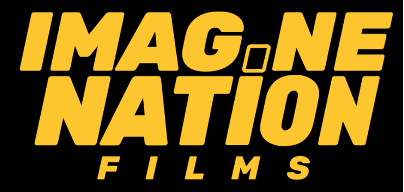
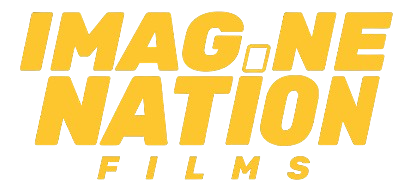
cambios

diff --git a/src/Styles/home.css b/src/Styles/home.css
@@ -101,47 +101,42 @@
 	max-width: 78%;
 	margin: 0 auto 24px;
 	padding: 26px 28px;
-	opacity: 0;
-	transform: scale(0.9);
-	animation: infPop 0.7s cubic-bezier(0.2, 1.2, 0.3, 1) 0.1s forwards;
+	animation: infPop 0.7s cubic-bezier(0.2, 1.2, 0.3, 1) 0.1s both;
 }
 @keyframes infPop {
+	from { opacity: 0; transform: scale(0.9); }
 	to { opacity: 1; transform: scale(1); }
 }
 
-
-/* NUEVO: Contenedor transparente sin recuadro */
+/* ===== LOGO (única versión, amarillo vivo) ===== */
 .inf-logo-box {
-    position: relative;
-    background: transparent;
-    padding: 10px 0;
-    box-shadow: none;
-    overflow: visible;
+	position: relative;
+	background: transparent;
+	border: none;
+	padding: 10px 0;
+	box-shadow: none;
+	overflow: visible;
 }
 
 .inf-logo-box::after {
-    display: none;
+	display: none;
 }
-
-/* NUEVO: Ajuste para el PNG (limpia el fondo y mantiene solo el texto visible) */
-.inf-logo {
-    position: relative;
-    width: 100%;
-    max-width: 220px; /* Ajusta el tamaño si lo ves muy grande */
-    height: auto;
-    display: block;
-    margin: 0 auto;
-    z-index: 1;
-    filter: brightness(0) invert(1); /* Vuelve el logo completamente blanco/brillante, o quítalo si tu PNG ya es blanco o amarillo */
-}
-
 
 .inf-logo {
 	position: relative;
 	width: 100%;
+	max-width: 240px;
 	height: auto;
 	display: block;
+	margin: 0 auto;
 	z-index: 1;
+	mix-blend-mode: normal;
+	opacity: 1;
+	filter:
+		brightness(0.89)
+		saturate(1.1)
+		drop-shadow(0 0 24px rgba(255, 199, 44, 0.45))
+		drop-shadow(0 0 10px rgba(255, 199, 44, 0.35));
 }
 
 .vf-corner {
@@ -209,8 +204,7 @@
 	text-transform: uppercase;
 	color: #cfcfcf;
 	margin: 0 0 34px;
-	opacity: 0;
-	animation: infFade 0.6s ease 0.5s forwards;
+	animation: infFade 0.6s ease 0.5s both;
 }
 .inf-line {
 	height: 1px;
@@ -219,6 +213,7 @@
 	opacity: 0.6;
 }
 @keyframes infFade {
+	from { opacity: 0; }
 	to { opacity: 1; }
 }
 
@@ -240,12 +235,11 @@
 	text-decoration: none;
 	color: #fff;
 	overflow: hidden;
-	opacity: 0;
-	transform: translateX(-30px);
-	animation: infSlide 0.6s cubic-bezier(0.2, 1, 0.3, 1) var(--d) forwards;
+	animation: infSlide 0.6s cubic-bezier(0.2, 1, 0.3, 1) var(--d) both;
 	transition: transform 0.25s ease, border-color 0.25s ease;
 }
 @keyframes infSlide {
+	from { opacity: 0; transform: translateX(-30px); }
 	to { opacity: 1; transform: translateX(0); }
 }
 
@@ -323,12 +317,11 @@
 	font-weight: 700;
 	font-size: 0.72rem;
 	text-decoration: none;
-	opacity: 0;
-	transform: scale(0.6);
-	animation: infPopSocial 0.5s cubic-bezier(0.2, 1.3, 0.4, 1) var(--d) forwards;
+	animation: infPopSocial 0.5s cubic-bezier(0.2, 1.3, 0.4, 1) var(--d) both;
 	transition: background 0.25s ease, color 0.25s ease, transform 0.25s ease, box-shadow 0.25s ease;
 }
 @keyframes infPopSocial {
+	from { opacity: 0; transform: scale(0.6); }
 	to { opacity: 1; transform: scale(1); }
 }
 .inf-social:hover {
@@ -345,55 +338,9 @@
 	letter-spacing: 1.5px;
 	color: #5a5a5a;
 	margin-top: 10px;
-	opacity: 0;
-	animation: infFade 0.6s ease 1.2s forwards;
+	animation: infFade 0.6s ease 1.2s both;
 }
 
-.inf-logo {
-    position: relative;
-    width: 100%;
-    height: auto;
-    display: block;
-    z-index: 1;
-    /* Opción A: Vuelve el blanco transparente integrándolo con el fondo oscuro */
-    mix-blend-mode: luminosity; 
-    opacity: 0.9;
-    filter: contrast(120%);
-}
-
-/* Agrega esto justo debajo para teñir la imagen y eliminar el impacto del blanco puro */
-.inf-logo-box img.inf-logo {
-    filter: invert(1) hue-rotate(180deg) brightness(1.2); 
-    mix-blend-mode: screen;
-}
-
-
-.inf-logo-box {
-    position: relative;
-    background: var(--inf-black); /* Fondo negro exacto del sitio */
-    border: none;
-    border-radius: 0;
-    padding: 10px 0;
-    box-shadow: none;
-    overflow: visible;
-}
-
-.inf-logo-box::after {
-    display: none;
-}
-
-.inf-logo {
-    position: relative;
-    width: 100%;
-    max-width: 220px; /* Ajusta este valor si deseas cambiar el tamaño del logo */
-    height: auto;
-    display: block;
-    margin: 0 auto;
-    z-index: 1;
-    background: transparent;
-    box-shadow: none;
-    filter: none; /* Remueve filtros forzados para respetar el color original de tu PNG */
-}
 @media (max-width: 520px) {
 	.inf-corner { width: 30px; height: 30px; top: 16px; left: 16px; }
 	.inf-corner.tr { left: auto; right: 16px; }

diff --git a/src/pages/Home.jsx b/src/pages/Home.jsx
@@ -1,17 +1,17 @@
 import { useState, useEffect } from "react";
 import "../Styles/home.css";
-import logoUrl from "../assets/img/12.png";
+import logoUrl from "../assets/img/Imagen_1-removebg-preview (1).png";
 
 const LINKS = [
 	{ label: "Sitio Web", sublabel: "imaginenationfilms.com", url: "https://imaginenationfilms.com/", tag: "01" },
-	{ label: "WhatsApp", sublabel: "Escríbenos directo", url: "https://wa.me/573173820560", tag: "02" },
+	{ label: "WhatsApp", sublabel: "Escríbenos directo", url: "https://wa.me/573209407738", tag: "02" },
 	{ label: "Instagram", sublabel: "@imaginenation.films", url: "https://www.instagram.com/imaginenation.films/", tag: "03" },
-	{ label: "YouTube", sublabel: "Nuestros proyectos", url: "https://www.youtube.com/", tag: "04" },
+	{ label: "YouTube", sublabel: "Nuestros proyectos", url: "https://www.youtube.com/@ImagineNationFilmsCo", tag: "04" },
 ];
 
 const SOCIALS = [
 	{ label: "IG", url: "https://www.instagram.com/imaginenation.films/" },
-	{ label: "WA", url: "https://wa.me/573173820560" },
+	{ label: "WA", url: "https://wa.me/573209407738" },
 	{ label: "WEB", url: "https://imaginenationfilms.com/" },
 ];
 
